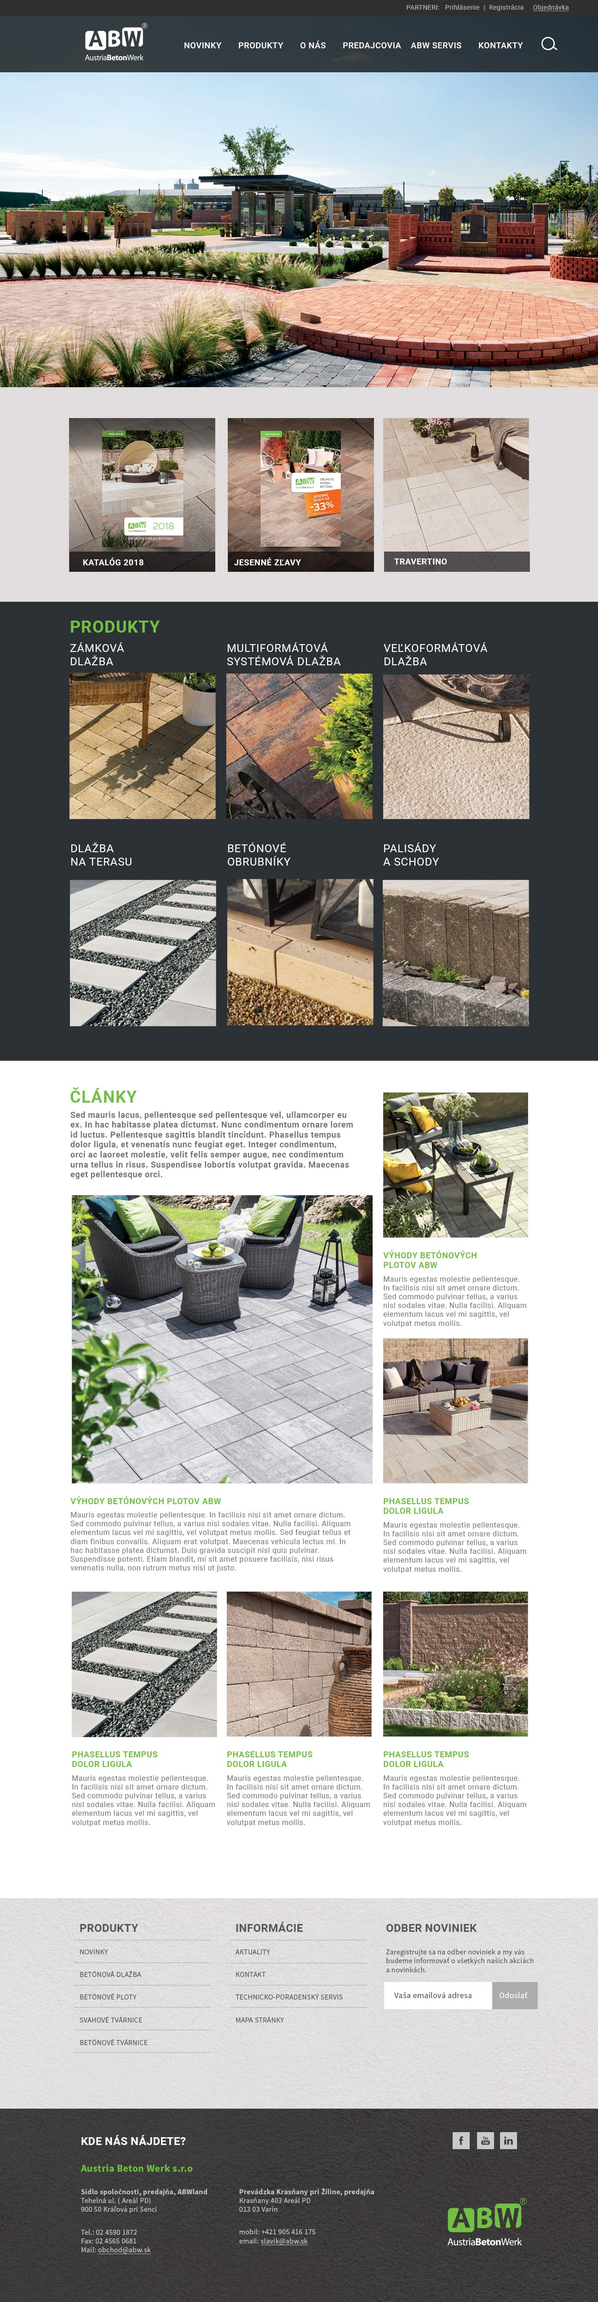
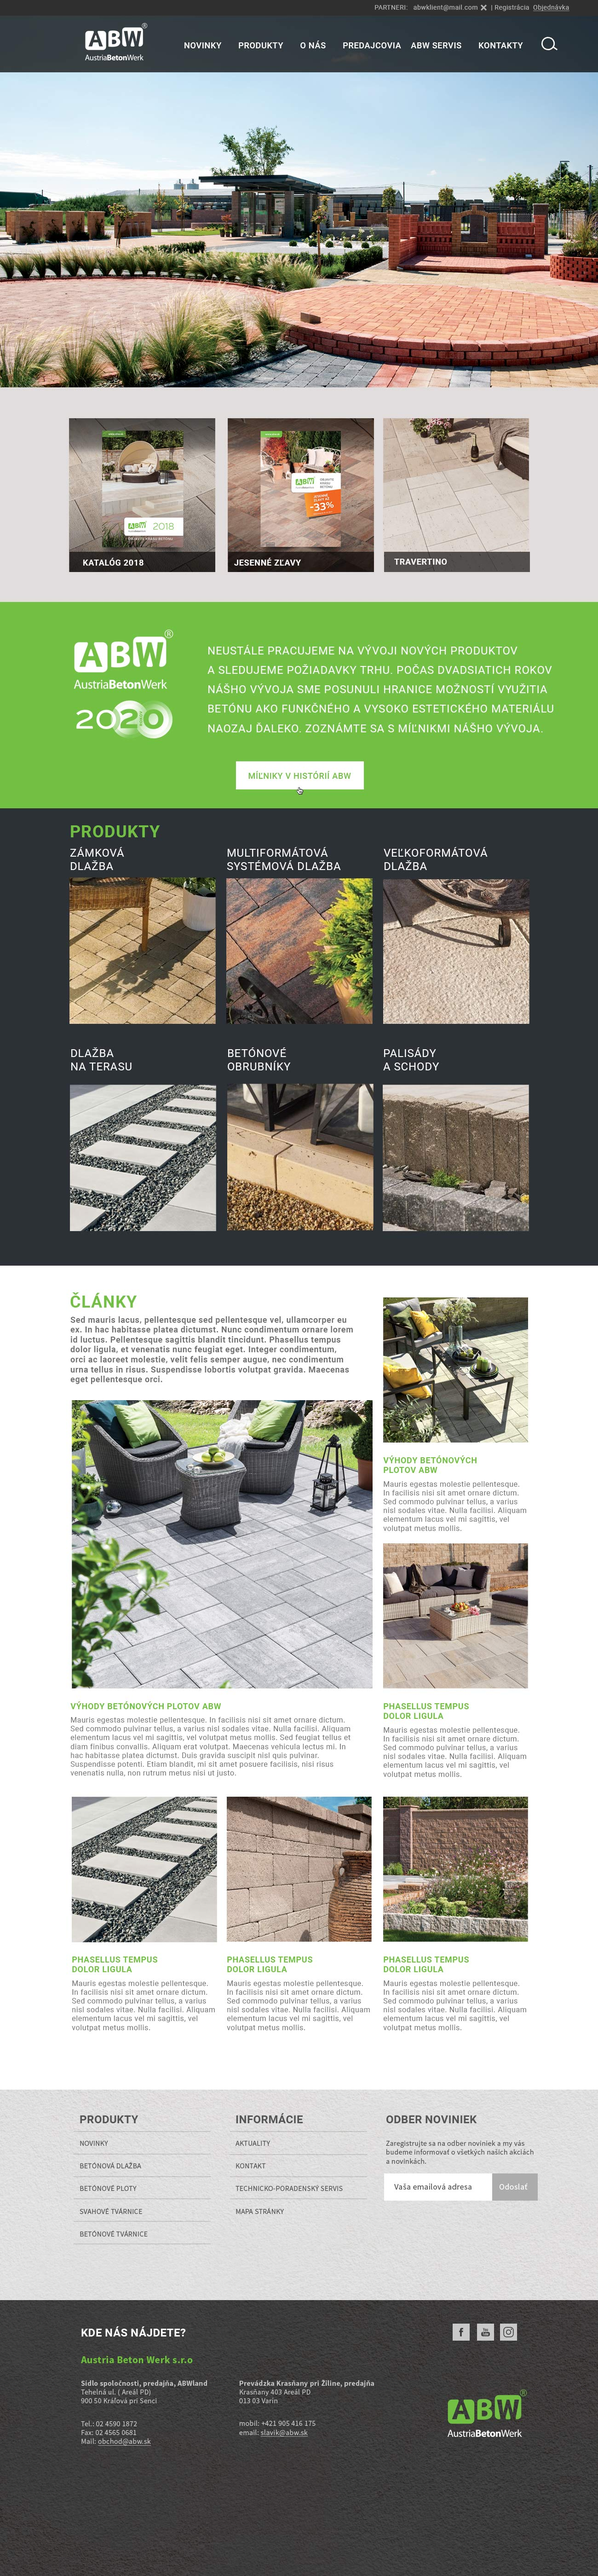
Sum

diff --git a/docs/web/index.html b/docs/web/index.html
@@ -10,11 +10,11 @@ body {
 	margin-left:0;
 	margin-top:0;
 	background-color:#888888;
-	background-image: url(01.gif);
+	background-image: url(Web_ABW.gif);
 	background-repeat: repeat-x;
 }
 </style>
 <body> 
-<div align="center"> <a href="02.html"><img src="Web_ABW.jpg" width="1300" height="5000" border="0"></a></div>
+<div align="center"> <a href="02.html"><img src="Web_ABW.jpg" width="1300" height="5593" border="0"></a></div>
 </body>
 </html>
